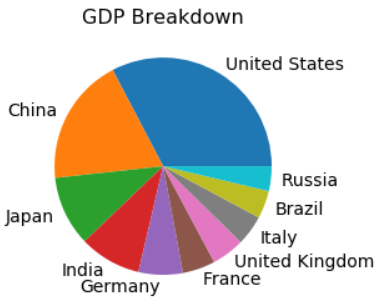
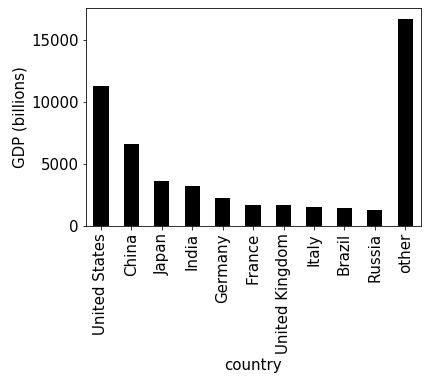
review stage 2

diff --git a/fall19/p10/stage2.md b/fall19/p10/stage2.md
@@ -1,5 +1,3 @@
-# NOT RELEASED YET, DON'T START!!!
-
 # Stage 2: Databases and Plotting
 
 In this section, you'll dump your DataFrames to a SQLite database.
@@ -93,11 +91,11 @@ Hint: `real GDP = population * gdp-per-capita`
 
 #### Question 27: What are the top 10 countries that have the largest real GDP? (answer with a plot)
 
-To make the problem more interesting, answer with a **pie chart**.
-
 **Expected output:**
 
-<img src="imgs/2-27.PNG" width="300">
+<img src="imgs/2-27.PNG" width="400">
+
+Make sure to include the "other" category.
 
 #### Question 28: What are the top 15 countries that have the largest gap between birth rate and death rate?
 
